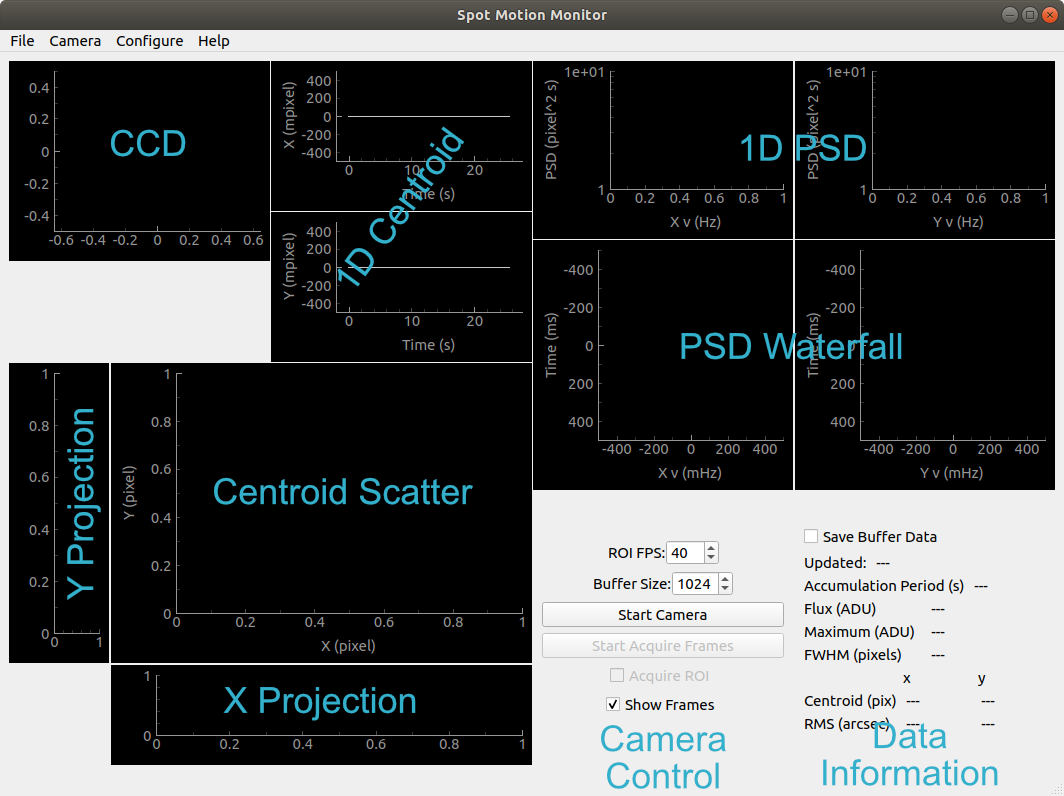
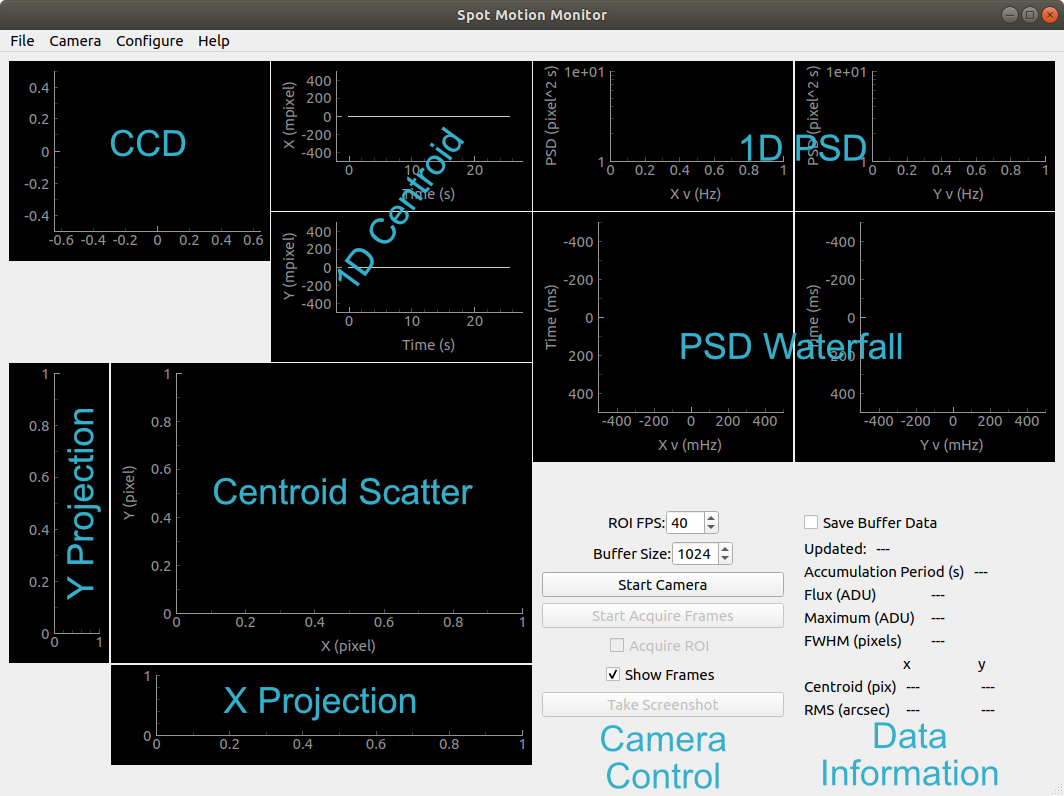
Update documentation.

diff --git a/docs/usage.rst b/docs/usage.rst
@@ -32,7 +32,7 @@ The following sections will describe the sections of the user interface. The use
 The plots are made using the `pyqtgraph <http://pyqtgraph.org/>`_ library and have many adjustments available by right-clicking on the particular plot. The user interface also provides some plot configuration as well. More information on that configuration can be found here: PlotConfig_.
 
 The camera is interacted with via the *Camera Control* section. It contains spinners to set
-the camera frame rate (FPS or frames per second)and the number of frames kept in the internal program buffer. The *Start/Stop Camera* button controls the startup or shutdown of the currently chosen camera. The *Start/Stop Acquire Frames* button controls frame acquisition from the CCD. The *Acquire ROI* checkbox restricts the camera readout to a 50x50 (default) ROI section around the spot centroid. Once the camera is started and acquiring frames, the current images from the CCD is displayed in the *CCD* plot. The *Show Frames* checkbox turns the *CCD* plot display on and off. With the camera acquiring in ROI mode (the *Acquire ROI* checkbox is checked), the *ROI FPS* and *Buffer Size* spinners are disabled to prevent modification of the buffer information during running. To enable the spinners again, uncheck the *Acquire ROI* checkbox.
+the camera frame rate (FPS or frames per second)and the number of frames kept in the internal program buffer. The *Start/Stop Camera* button controls the startup or shutdown of the currently chosen camera. The *Start/Stop Acquire Frames* button controls frame acquisition from the CCD. The *Acquire ROI* checkbox restricts the camera readout to a 50x50 (default) ROI section around the spot centroid. Once the camera is started and acquiring frames, the current images from the CCD is displayed in the *CCD* plot. The *Show Frames* checkbox turns the *CCD* plot display on and off. With the camera acquiring in ROI mode (the *Acquire ROI* checkbox is checked), the *ROI FPS* and *Buffer Size* spinners are disabled to prevent modification of the buffer information during running. To enable the spinners again, uncheck the *Acquire ROI* checkbox. The *Take Screenshot* button, which is enabled when acquiring frames, will save the next possible CCD frame to a FITS file. The filename is ``ccd_YYYYMMDD_HHMMSS.fits`` and the time tag is the current timezone aware (default is UTC) time at file creation.
 
 While the camera is running, information from the acquired frames is displayed in the *Data Information* section. Not all widgets display information while acquiring full CCD frames. In this mode, only the *Flux*, *Maximum*, *FWHM* and *Centroid* widgets display information. When acquiring in ROI mode, all widgets are reset until the first buffer fills. Once that happens, the *Updated* widget shows the local time when the information was written to all the widgets. The *Accumulation Period* widget is filled based on the size of the current buffer and the current frame rate of the camera (:math:`T_{Acq} = L\,/ FPS`). The *Flux* widget displays the mean of all the fluxes stored in the buffer. The *Maximum* widget shows the mean of the maximum values stored in the buffer. The *FWHM* widget displays the calculated 2D full-width, half maximum of the spot. The *x* and *y* *Centroid* widgets show the mean of the x and y centroid values respectively. The *RMS* widget shows the standard deviation of the x and y centroid values in the buffer times the pixel scale for the optical system. 
 
